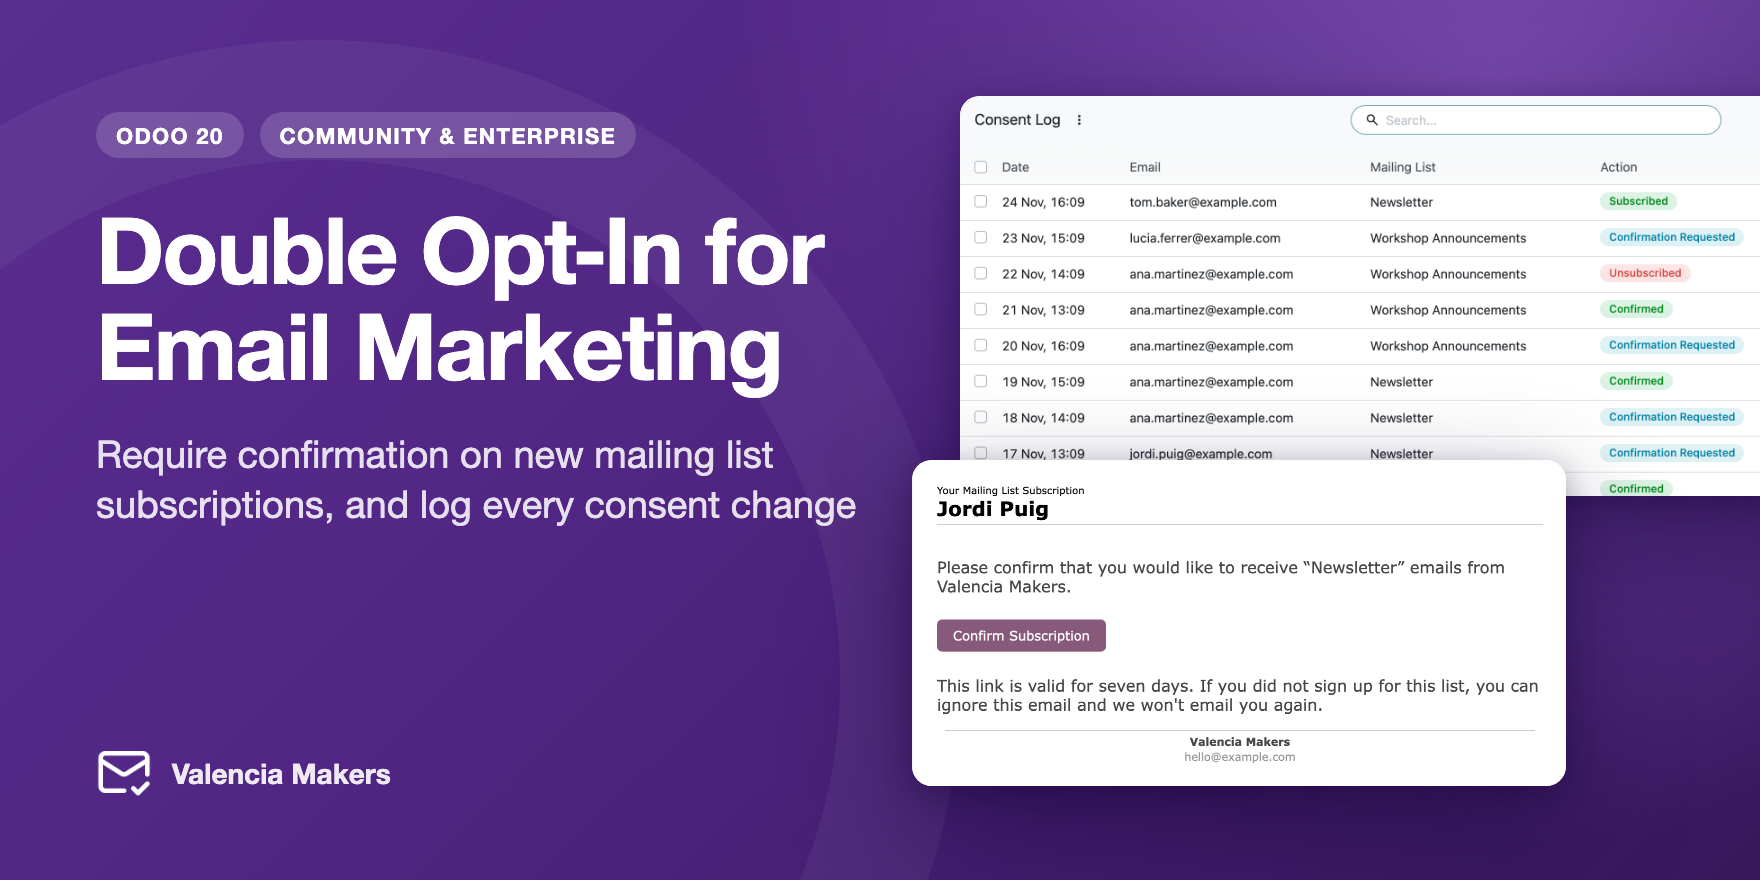
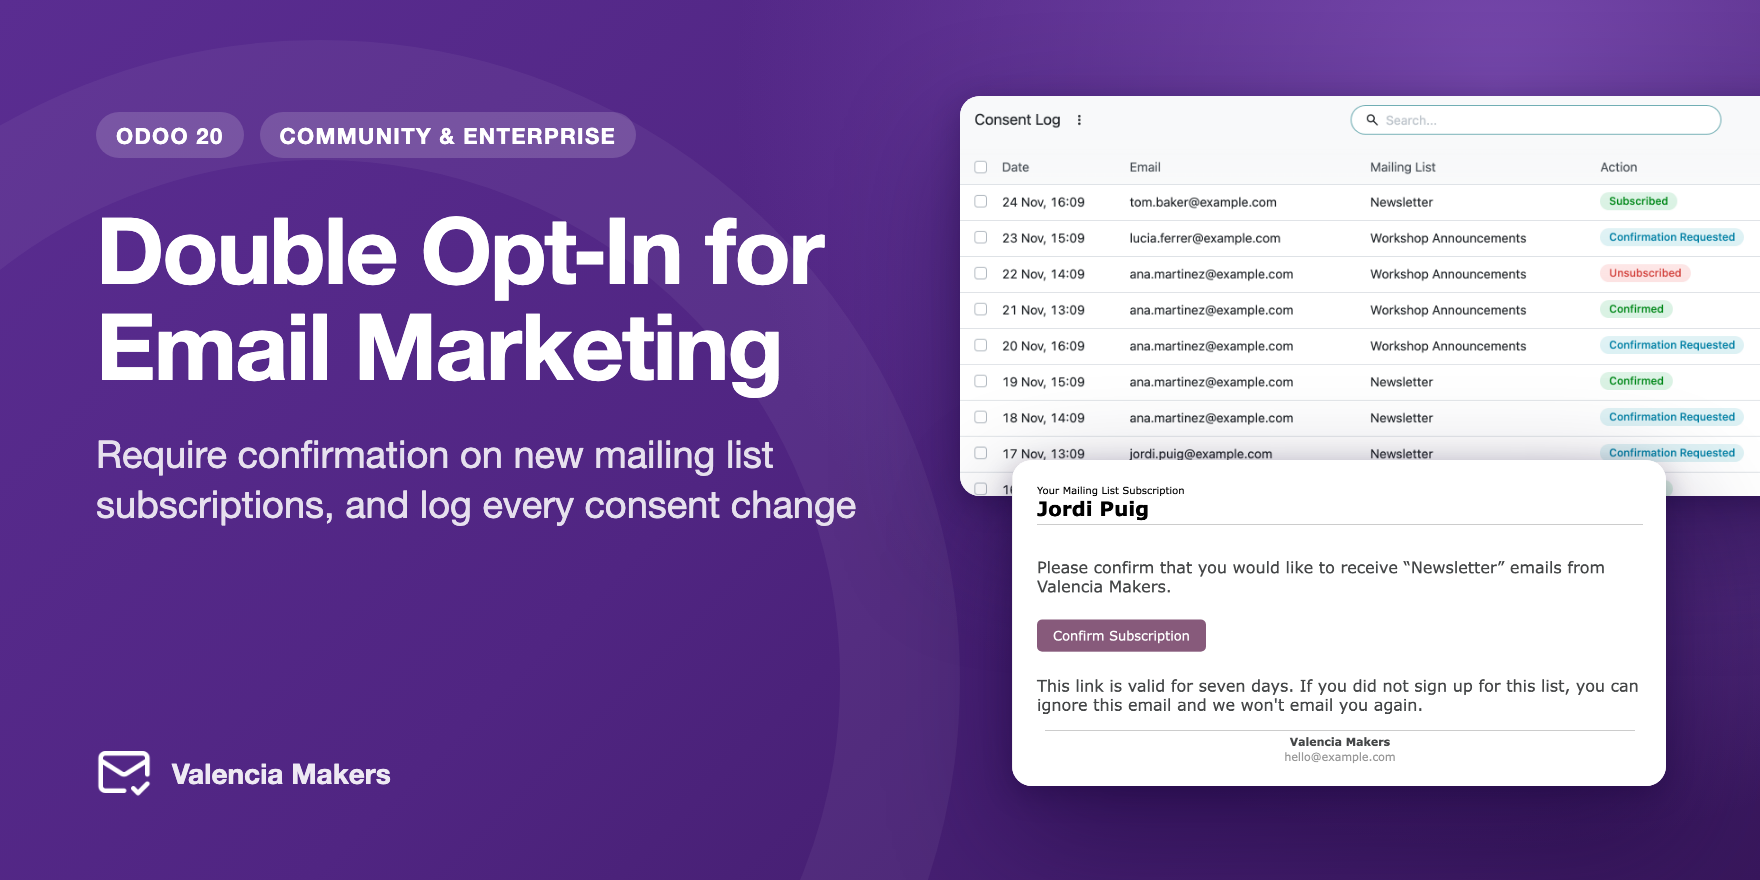
Move vmk_mass_mailing_double_optin's cover email card to the right
- The email card now sits 47px from the cover's right edge, the same as its distance
  from the bottom, rather than overhanging the consent log's left edge.

Changed region(s): [[0.5, 0.5216, 0.9688, 0.9205]]

diff --git a/tools/covers/vmk_mass_mailing_double_optin.html b/tools/covers/vmk_mass_mailing_double_optin.html
@@ -19,8 +19,8 @@
              style="width: 576px; left: 0; top: 0;" alt="">
     </div>
     <!-- In front: the confirmation email (760x377 CSS px at 2x) at 0.5, cut to its white card,
-         overhanging the log's left edge. -->
-    <div class="shot" style="left: 456px; top: 230px; width: 327px; height: 163px;">
+         as far from the right edge as from the bottom, 47px. -->
+    <div class="shot" style="left: 506px; top: 230px; width: 327px; height: 163px;">
         <img src="../../vmk_mass_mailing_double_optin/static/description/email.png"
              style="width: 380px; left: -26.5px; top: -12px;" alt="">
     </div>
